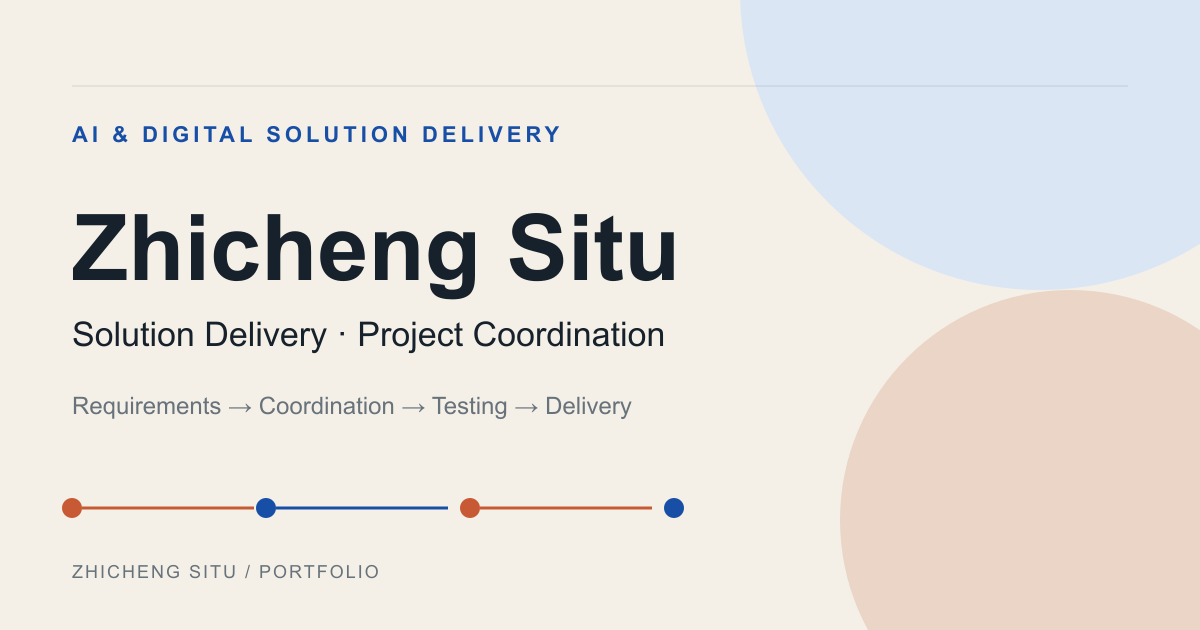
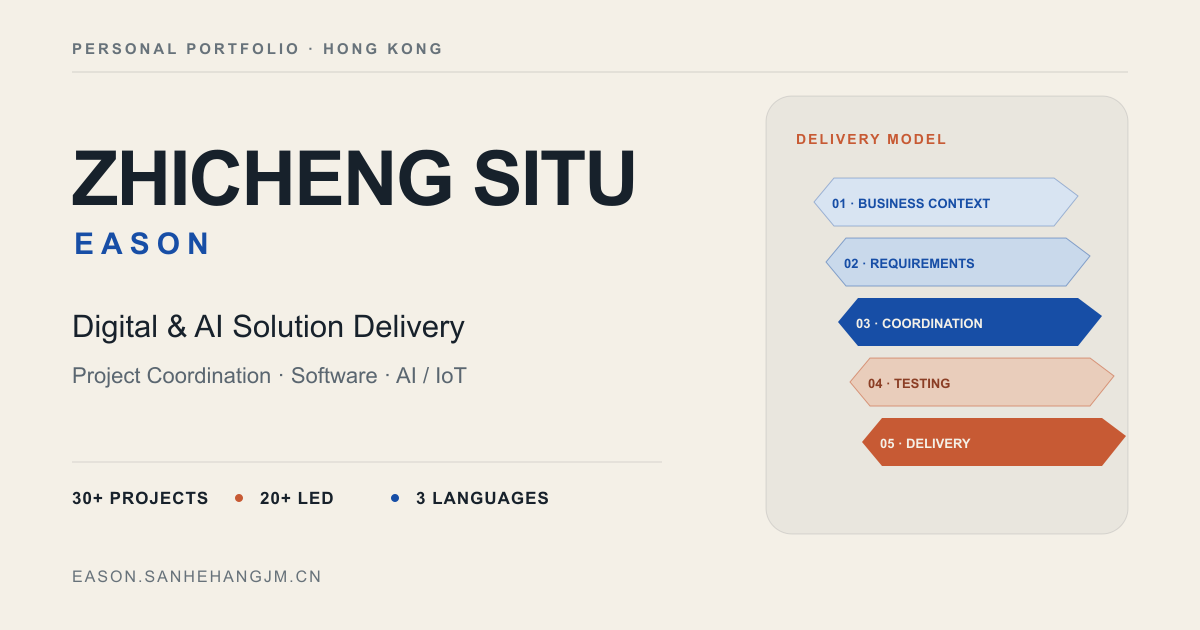
content: add education and social links to portfolio

diff --git a/components/ArchiveGate/ArchiveGateSite.js b/components/ArchiveGate/ArchiveGateSite.js
@@ -970,7 +970,8 @@ export default function ArchiveGateSite({ copy, locale, onLocaleChange }) {
                   <a className={styles.primaryButton} href={copy.contact.email} data-cursor-label="EMAIL">
                     {copy.contact.emailLabel}
                   </a>
-                  {copy.contact.linkedin && <a className={styles.secondaryButton} href={copy.contact.linkedin} data-cursor-label="LINKEDIN">LinkedIn</a>}
+                  {copy.contact.linkedin && <a className={styles.secondaryButton} href={copy.contact.linkedin} data-cursor-label="LINKEDIN" target="_blank" rel="noreferrer">LinkedIn</a>}
+                  {copy.contact.github && <a className={styles.secondaryButton} href={copy.contact.github} data-cursor-label="GITHUB" target="_blank" rel="noreferrer">GitHub</a>}
                   <a className={styles.secondaryButton} href={withPublicBasePath(copy.contact.resume)} download data-cursor-label="CV">
                     {copy.contact.resumeLabel}
                   </a>
